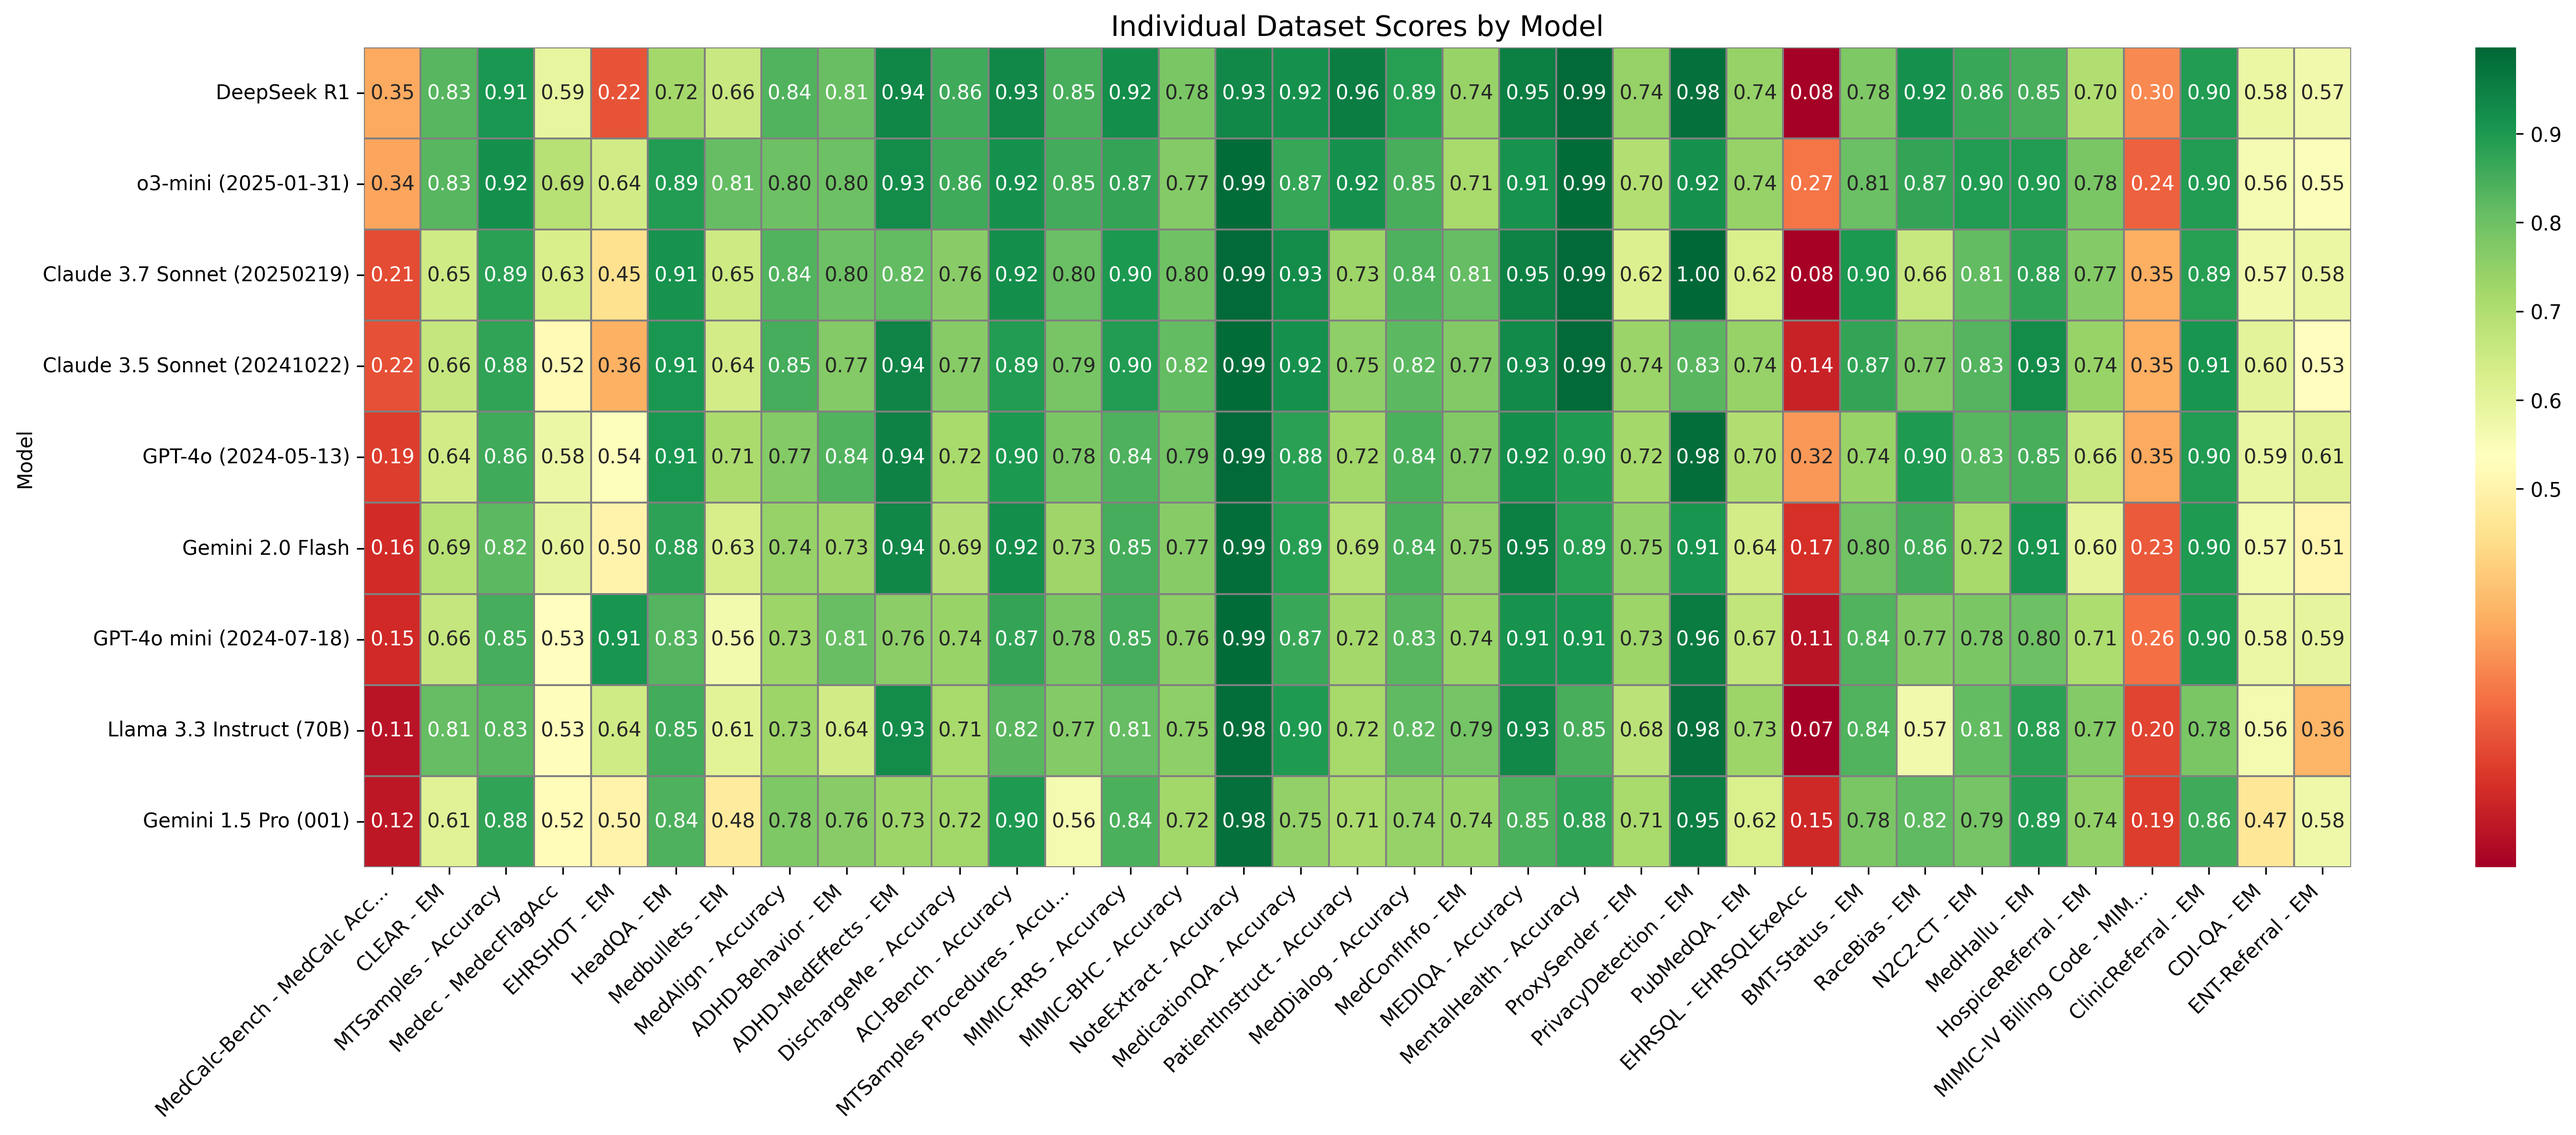
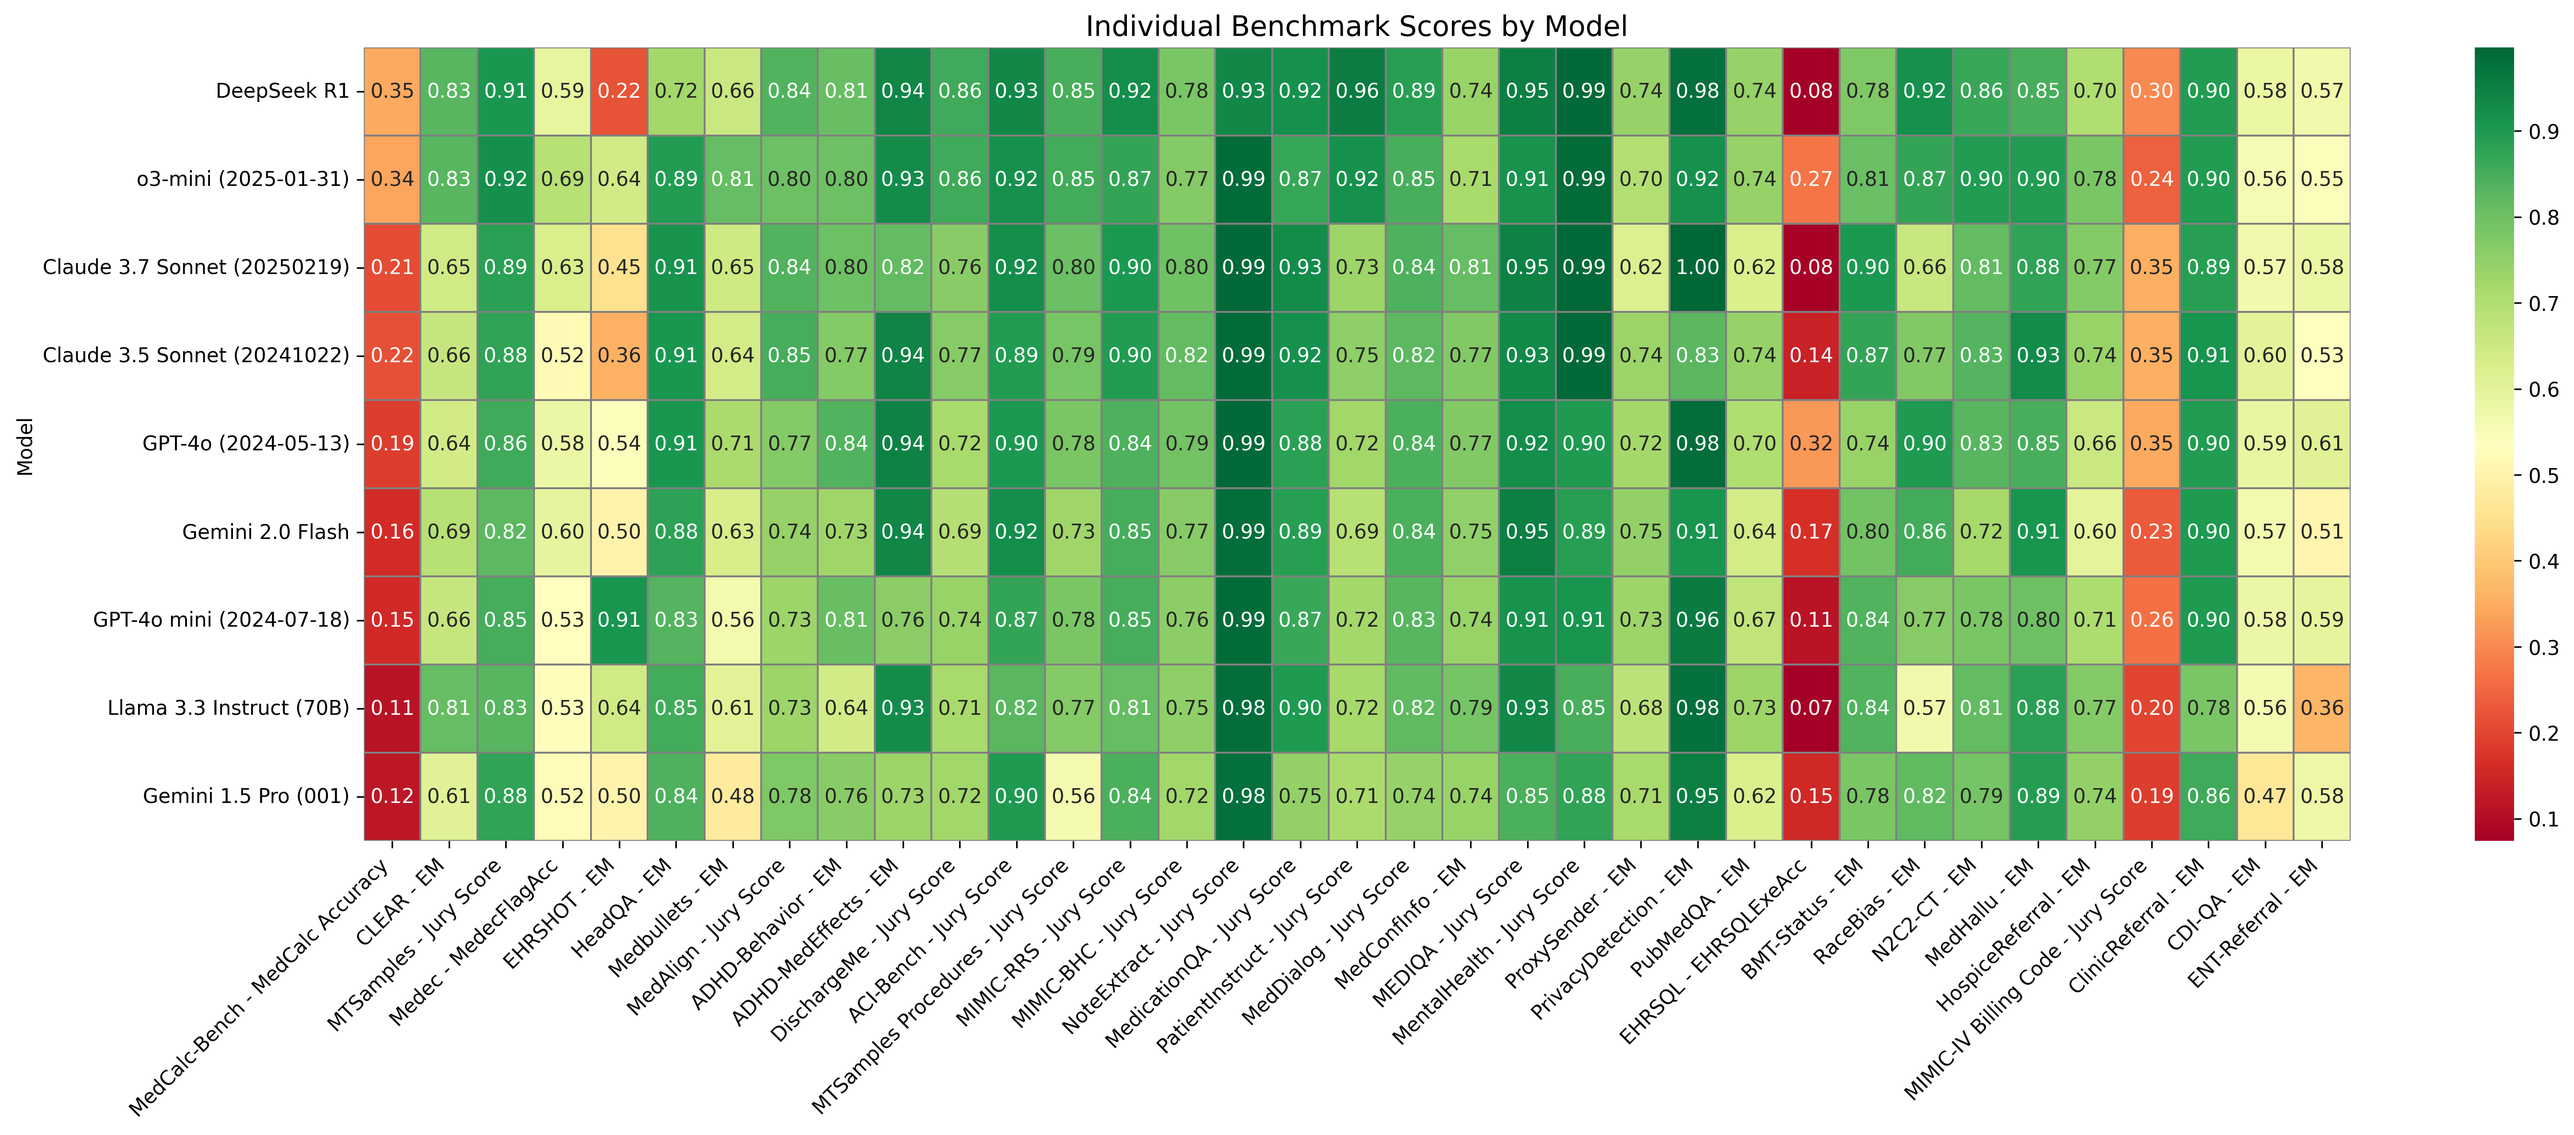
Added transposed heatmap

diff --git a/src/medhelm/plots/plot_category_heatmap.py b/src/medhelm/plots/plot_category_heatmap.py
@@ -9,58 +9,18 @@ import argparse
 def plot_category_heatmap(
     df_path: str,
     output_path: str,
-    aggregated=False
+    aggregated=False,
+    transpose=False  # <- NEW ARGUMENT
 ):
     df = pd.read_csv(df_path)
     
     # Define category mappings
     category_mappings = {
-        'Clinical Decision Support': [
-            'MedCalc-Bench - MedCalc Acc...',
-            'CLEAR - EM',
-            'HeadQA - EM',
-            'Medbullets - EM',
-            'CDI-QA - EM',
-            'Medec - MedecFlagAcc',
-            'MTSamples - Jury Score',
-            'EHRSHOT - EM',
-            'MedAlign - Jury Score',
-            'ADHD-Behavior - EM',
-            'ADHD-MedEffects - EM',
-        ],
-        'Clinical Note Generation': [
-            'ACI-Bench - Jury Score',
-            'MTSamples Procedures - Accu...',
-            'NoteExtract - Jury Score',
-            'MIMIC-RRS - Jury Score',
-            'DischargeMe - Jury Score',
-            'MIMIC-BHC - Jury Score'
-        ],
-        'Patient Communication and Education': [
-            'MedicationQA - Jury Score',
-            'MEDIQA - Jury Score',
-            'MentalHealth - Jury Score',
-            'MedDialog - Jury Score',
-            'MedConfInfo - EM',
-            'PatientInstruct - Jury Score',
-            'ProxySender - EM',
-            'PrivacyDetection - EM',
-        ],
-        'Medical Research Assistance': [
-            'EHRSQL - EHRSQLExeAcc',
-            'BMT-Status - EM',
-            'N2C2-CT - EM',
-            'RaceBias - EM',
-            'PubMedQA - EM',
-            'MedHallu - EM'
-        ],
-        'Administration and Workflow': [
-            'HospiceReferral - EM',
-            'MIMIC-IV Billing Code - MIM...',
-            'ClinicReferral - EM',
-            'CDI-QA - EM',
-            'ENT-Referral - EM',
-        ]
+        'Clinical Decision Support': [...],
+        'Clinical Note Generation': [...],
+        'Patient Communication and Education': [...],
+        'Medical Research Assistance': [...],
+        'Administration and Workflow': [...]
     }
 
     if aggregated:
@@ -73,9 +33,8 @@ def plot_category_heatmap(
                 for metric in metrics:
                     if metric in df.columns:
                         score = df.loc[df['Model'] == model, metric].iloc[0]
-                        # Convert percentage scores to 0-1 scale
                         if score > 1:
-                            score = score / 5.0  # Assuming 5-point scale
+                            score = score / 5.0
                         scores.append(score)
                 results[model][category] = np.mean(scores)
         
@@ -83,10 +42,6 @@ def plot_category_heatmap(
         plt.figure(figsize=(14, 6))
         title = "Mean Normalized Scores by Model and Category"
     else:
-        # Non-aggregated view (all datasets)
-        # Get all columns except 'Model' and 'Mean win rate'
-        # Get metric columns and rename any with "Accuracy" to "Jury Score"
-        # Get metric columns and standardize naming
         metric_columns = [col for col in df.columns if col not in ['Model', 'Mean win rate']]
         replacements = {
             'Accuracy': 'Jury Score',
@@ -96,9 +51,7 @@ def plot_category_heatmap(
         }
         for old, new in replacements.items():
             metric_columns = [col.replace(old, new) for col in metric_columns]
-        print(metric_columns)
         
-        # Rename columns in dataframe
         rename_dict = {}
         for col in df.columns:
             if 'Accuracy' in col:
@@ -111,17 +64,18 @@ def plot_category_heatmap(
                 rename_dict[col] = col.replace('MedCalc Acc...', 'MedCalc Accuracy')
         df = df.rename(columns=rename_dict)
         
-        # Normalize scores
-        print(df.columns)
         for col in metric_columns:
-            print(col)
             if df[col].max() > 1:
                 df[col] = df[col] / 5.0
         
-        # Prepare data for heatmap
         heatmap_df = df.set_index('Model')[metric_columns]
-        print(heatmap_df)
-        plt.figure(figsize=(20, 8))  # Larger figure for more columns
+
+        if transpose:
+            heatmap_df = heatmap_df.T
+            plt.figure(figsize=(10, 14))
+        else:
+            plt.figure(figsize=(20, 8))
+
         title = "Individual Benchmark Scores by Model"
 
     # Color scheme setup
@@ -136,33 +90,33 @@ def plot_category_heatmap(
         heatmap_df,
         annot=True,
         fmt=".2f",
-        cmap="RdYlGn", #use RdYlGn for continuous color scheme, cmap for discrete color scheme
-        # norm=norm,
+        cmap="RdYlGn",
         cbar_kws={"ticks": bounds},
         linewidths=0.5,
         linecolor='gray',
         square=False
     )
 
-    # Labeling
     plt.title(title, fontsize=14)
     plt.xticks(rotation=45, ha='right')
     plt.tight_layout()
 
-    # Save the plot
     plt.savefig(output_path, dpi=300, bbox_inches='tight')
     print(f"Plot saved as '{output_path}'")
-    
     return plt.gcf()
 
 if __name__ == "__main__":
-    # Example usage:
-    # Aggregated view (default)
     args = argparse.ArgumentParser()
     args.add_argument("--leaderboard_path", type=str, default="/share/pi/nigam/users/aunell/medhelm/data/leaderboard.csv")
     args.add_argument("--output_path", type=str, default="../medhelm/plots/category_heatmap_AGG.png")
-    args.add_argument("--aggregated", type=bool, default=True)
+    args.add_argument("--aggregated", action="store_true")
+    args.add_argument("--transpose", action="store_true")
     args = args.parse_args()
-    plot_category_heatmap(df_path=args.leaderboard_path, output_path=args.output_path, aggregated=args.aggregated)
+
+    plot_category_heatmap(
+        df_path=args.leaderboard_path,
+        output_path=args.output_path,
+        aggregated=args.aggregated,
+        transpose=args.transpose
+    )
     plt.close()
-    
